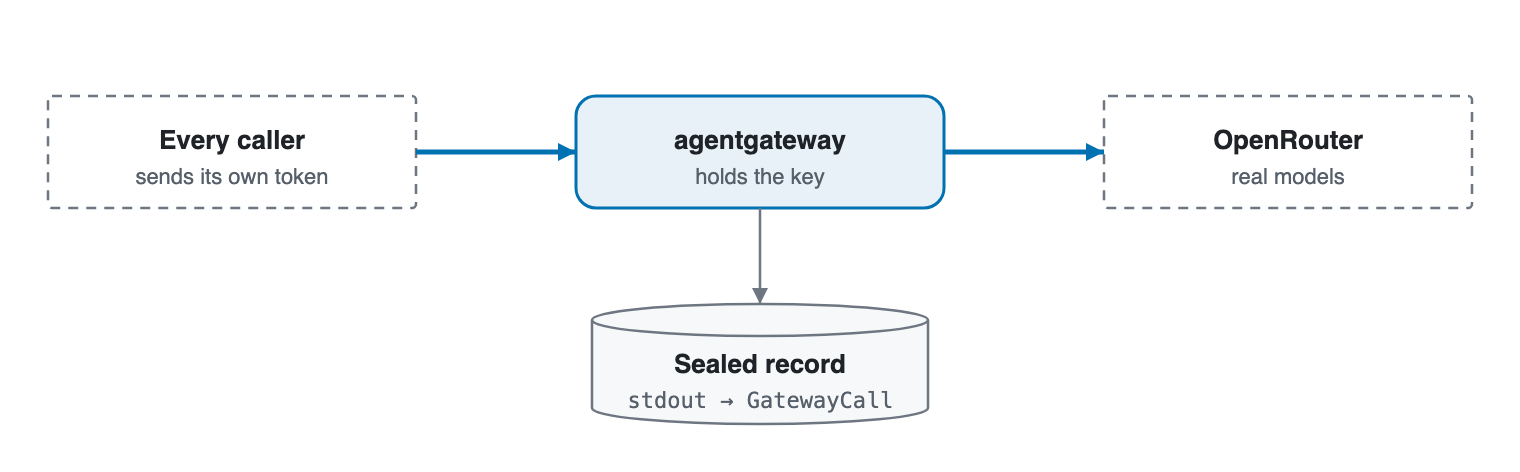
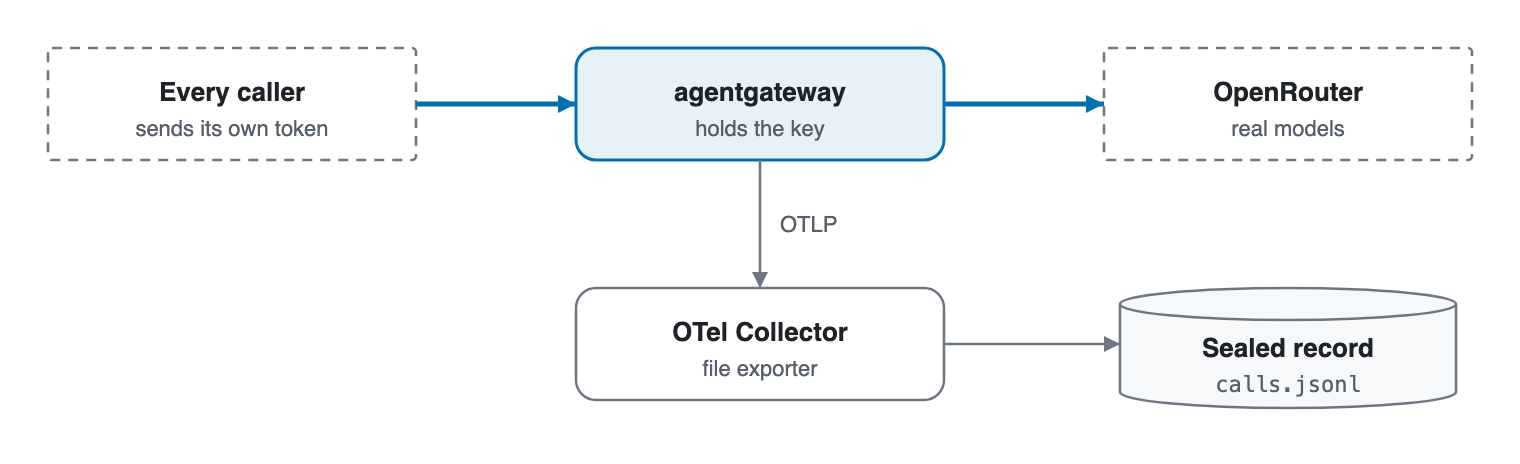
Spike: the sealed record over OTLP into an OpenTelemetry Collector, with the settings that keep it whole

diff --git a/scripts/spike_agentgateway_llm/probe_otel.py b/scripts/spike_agentgateway_llm/probe_otel.py
@@ -1,0 +1,109 @@
+"""OTLP probe: does the Collector's file (collector.yaml) hold the same record as agentgateway's stdout?
+
+Run after ``./up.sh parity_otel``. Runs the parity probe, then compares the two records call by call, and tries
+the ways a record could be lost: the Collector down during a call, a reply larger than gRPC's default 4 MiB
+message, and stopping the gateway, which is safe only after its records are drained to the Collector.
+"""
+
+import json
+import subprocess
+import sys
+import time
+from collections import Counter
+from pathlib import Path
+
+import httpx
+
+HERE = Path(__file__).parent
+GATEWAY = "http://127.0.0.1:18080/api/v1/chat/completions"
+SANDBOX = {"authorization": "Bearer tok-agent-main"}
+KEY = "sk-or-SPIKEFAKEKEY"
+results: list[tuple[str, bool]] = []
+
+
+def check(name: str, ok: bool, seen: object = "") -> None:
+    results.append((name, ok))
+    print(f"{'PASS' if ok else 'FAIL'}  {name}  {'' if ok else str(seen)[:300]}")
+
+
+def value(v: dict) -> object:
+    return next(iter(v.values())) if v else None
+
+
+def otel_records() -> list[dict]:
+    raw = subprocess.run(["docker", "run", "--rm", "-v", "agwspike-records:/records", "alpine:3.20", "cat",
+                          "/records/calls.jsonl"], capture_output=True, text=True).stdout
+    records = []
+    for line in raw.splitlines():
+        for resource in json.loads(line)["resourceLogs"]:
+            for scope in resource["scopeLogs"]:
+                for record in scope["logRecords"]:
+                    records.append({a["key"]: value(a["value"]) for a in record["attributes"]})
+    return records
+
+
+def stdout_records() -> list[dict]:
+    logs = subprocess.run(["docker", "logs", "agwspike-gw"], capture_output=True, text=True)
+    return [json.loads(line) for line in (logs.stdout + logs.stderr).splitlines() if '"scope":"request"' in line]
+
+
+def call(model: str, **extra) -> int:
+    body = {"model": model, "messages": [{"role": "user", "content": "hi"}], **extra}
+    try:
+        return httpx.post(GATEWAY, json=body, headers=SANDBOX, timeout=60).status_code
+    except httpx.HTTPError as error:
+        return -1 if "ReadError" not in type(error).__name__ else -2
+
+
+def otel_has(model: str, wait: float = 8.0) -> bool:
+    deadline = time.monotonic() + wait
+    while time.monotonic() < deadline:
+        if any(f'"{model}"' in str(r.get("request_body", "")) for r in otel_records()):
+            return True
+        time.sleep(0.5)
+    return False
+
+
+def main() -> None:
+    subprocess.run([sys.executable, str(HERE / "probe_parity.py")], check=True, capture_output=True)
+    time.sleep(2)
+    stdout, otel = stdout_records(), otel_records()
+    by_stdout = Counter((r["http.path"], r["http.status"]) for r in stdout)
+    by_otel = Counter((r.get("url.path"), int(r.get("http.response.status_code", 0))) for r in otel)
+    check(f"every stdout record is in the OTLP file ({len(otel)} of {len(stdout)})", by_stdout == by_otel,
+          {"only stdout": by_stdout - by_otel, "only otel": by_otel - by_stdout})
+    statuses = sorted({s for _, s in by_otel})
+    check("refused and failed calls are there (401, 403, 404, 429, 503)", {401, 403, 404, 429, 503} <= set(statuses),
+          statuses)
+    longest = max(len(str(r.get("response_body", ""))) for r in otel)
+    check("a 200 KB reply arrives whole", longest >= 200_000, longest)
+    check("callers are named", any(r.get("caller") == "agent-main" for r in otel))
+    check("the key is in no record", KEY not in json.dumps(otel))
+
+    # A reply above gRPC's default 4 MiB message size.
+    status = call("big-6mb", big=6_000_000)
+    check("a 6 MB reply is recorded", status == 200 and otel_has("big-6mb"), status)
+
+    # The Collector down during a call, then back.
+    subprocess.run(["docker", "stop", "agwspike-otel"], capture_output=True)
+    status = call("while-collector-down")
+    time.sleep(1)
+    subprocess.run(["docker", "start", "agwspike-otel"], capture_output=True)
+    check("a call made while the Collector is down is recorded once it is back", otel_has("while-collector-down", 20),
+          status)
+
+    # Stopping: drain first. Wait (bounded) until the Collector holds every record stdout has, then stop.
+    status = call("drain-then-stop")
+    deadline = time.monotonic() + 10
+    while len(otel_records()) < len(stdout_records()) and time.monotonic() < deadline:
+        time.sleep(0.5)
+    drained = len(otel_records()) == len(stdout_records())
+    subprocess.run(["docker", "stop", "agwspike-gw"], capture_output=True)
+    check("drained before the stop: the OTLP file matches stdout, the last call included",
+          drained and otel_has("drain-then-stop"), (status, len(otel_records()), len(stdout_records())))
+
+    print(f"\n{sum(ok for _, ok in results)}/{len(results)} passed")
+
+
+if __name__ == "__main__":
+    main()

diff --git a/scripts/spike_agentgateway_llm/NOTES.md b/scripts/spike_agentgateway_llm/NOTES.md
@@ -100,18 +100,29 @@ reaches more of the provider:
    - Give up streaming for aliased models.
 
    Plain `modelAliases` shows agents the provider's model name.
-4. **The sealed record's shape.** This changes the sealed log's format: a one-way door.
-   - The record becomes the gateway container's stdout, copied with `docker compose logs gateway`. Today `compose cp`
-     copies `calls.jsonl`.
-   - Docker's log rotation must be off for that container (no `max-size` in the daemon or the compose `logging`
-     options), or the record is cut.
-   - Its readers change, or read through an adapter: `explorer/reasoning.py` and
-     `tests/integration/test_stack_reach.py`.
-   - The database sink (`parity_db.yaml`, `llm: full`) is structured. Each call's prompt and completion are stored as
-     role and parts JSON, the fields we add are kept (full bodies, caller), and a 200 KB reply arrives whole. It
-     records only calls that reach the LLM layer, though: 9 of the 21 calls in the parity run. Refused calls (401,
-     403, 404, 429) and `/models` are missing, so it cannot be the sealed record alone. OTLP logs into an
-     OpenTelemetry Collector with a file exporter are the other structured route; not tested.
+4. **The sealed record: OTLP into an OpenTelemetry Collector** (`parity_otel.yaml`, `collector.yaml`,
+   `probe_otel.py`, 8/8). This changes the sealed log's format: a one-way door.
+   - agentgateway exports every access-log record over OTLP to a Collector. The Collector's file exporter appends
+     each as JSON to `calls.jsonl`, in a volume only it mounts.
+   - All 21 stdout records of the parity run were there, refusals (401, 403, 404, 429) and the 503 included, with
+     bodies, callers and no key. Fields use OpenTelemetry's names (`url.path`, `http.response.status_code`,
+     `gen_ai.*`).
+   - Three settings, each found by a failed check:
+     - **Message size.** The Collector's gRPC receiver needs `max_recv_msg_size_mib` above 4. A 6 MB reply was
+       dropped at the default, with only an error in the gateway's log. At 256 MiB, 6 MB and 30 MB replies were
+       recorded.
+     - **`append: true` on the file exporter.** Without it, the exporter truncates the file when the Collector
+       restarts.
+     - **Drain before the stop.** The harness waits, bounded, until the Collector holds as many records as the
+       gateway's stdout, then stops the gateway. agentgateway exports in batches, and a batch still pending at
+       SIGTERM can be lost. It was lost every time with Docker's kill after 3 s, and on a cold exporter even with
+       a 30 s grace period ("BatchLogProcessor shutdown timing out"). The gateway also gets a long
+       `stop_grace_period`.
+   - A call made while the Collector was down was recorded once it came back.
+   - stdout stays as the completeness check that the drain compares against.
+   - The database sink (`parity_db.yaml`, `llm: full`) stores each call's prompt and completion as role and parts
+     JSON. It records only calls that reach the LLM layer (9 of 21), so it serves as the ledger and transcript store,
+     never the sealed record.
 5. **`/api/v1/completions`** (legacy text completion). llm mode does not serve it; a plain route beside it does
    (`combined.yaml`). Check whether anything still calls it.
 

diff --git a/scripts/spike_agentgateway_llm/PLAN.md b/scripts/spike_agentgateway_llm/PLAN.md
@@ -2,13 +2,13 @@
 
 ## Step 1: swap `proxy.py`, same behaviour
 
-![Step 1: every caller sends its own token to agentgateway, which holds the key, calls OpenRouter and writes the sealed record](img/step1.png)
+![Step 1: every caller sends its own token to agentgateway, which holds the key, calls OpenRouter and exports each call over OTLP to a Collector that writes the sealed record](img/step1.png)
 
 | What changes | How |
 | --- | --- |
 | callers | send a token; the episode and the host monitors get one |
 | config | rendered per run beside `tools_gateway.py`; buffers request bodies; drops `accept-encoding` |
-| sealed record | copied from stdout before the twin, with log rotation off; an adapter keeps the readers. **One-way door** |
+| sealed record | exported over OTLP to an OpenTelemetry Collector, which writes `calls.jsonl`; drained before the gateway stops; an adapter keeps the readers. **One-way door** |
 | tests | 14 of the 18 proxy tests become integration tests against the real binary |
 | lines | about −140 code, about −75 tests |
 
@@ -41,10 +41,12 @@ upgrade.
 | parity with `proxy.py` | 27/27 |
 | tier 1 features | 23/24 |
 | live OpenRouter calls | 6 |
+| the record over OTLP | 8/8 |
 
 ## Sources
 
 - agentgateway v1.6.0: https://github.com/agentgateway/agentgateway/releases/tag/v1.6.0 (the pinned version)
 - Config reference: https://github.com/agentgateway/agentgateway/blob/v1.6.0/schema/config.md (routes, auth, rate
   limits, budgets, llm mode)
-- Docker logging: https://docs.docker.com/engine/logging/configure/ (the daemon's rotation defaults)
+- Collector file exporter: https://github.com/open-telemetry/opentelemetry-collector-contrib/tree/main/exporter/fileexporter
+  (`append`, `flush_interval`, JSON lines)
